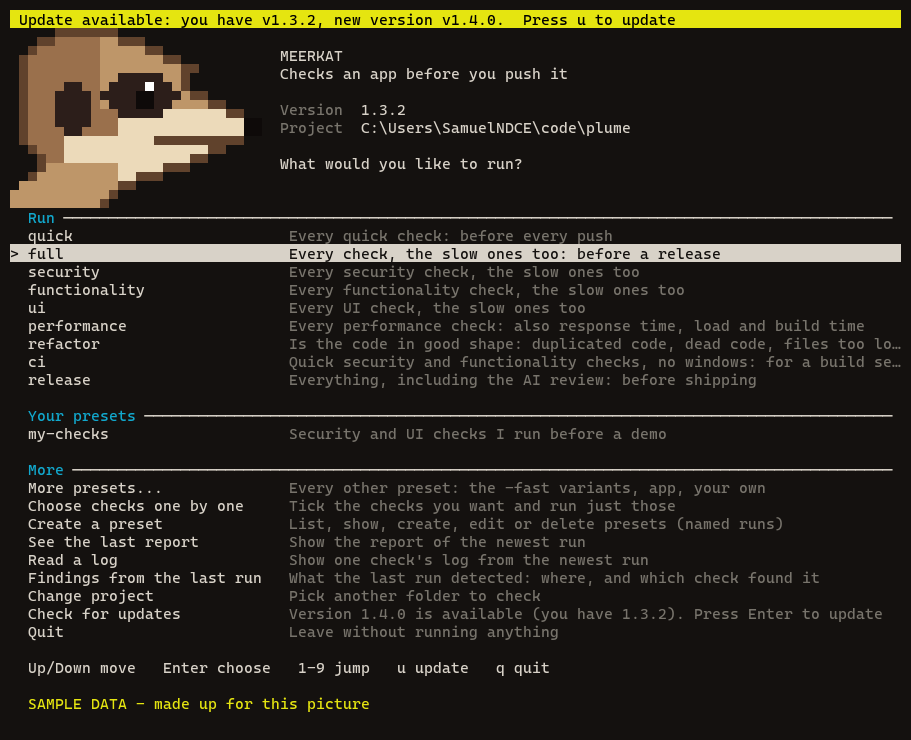
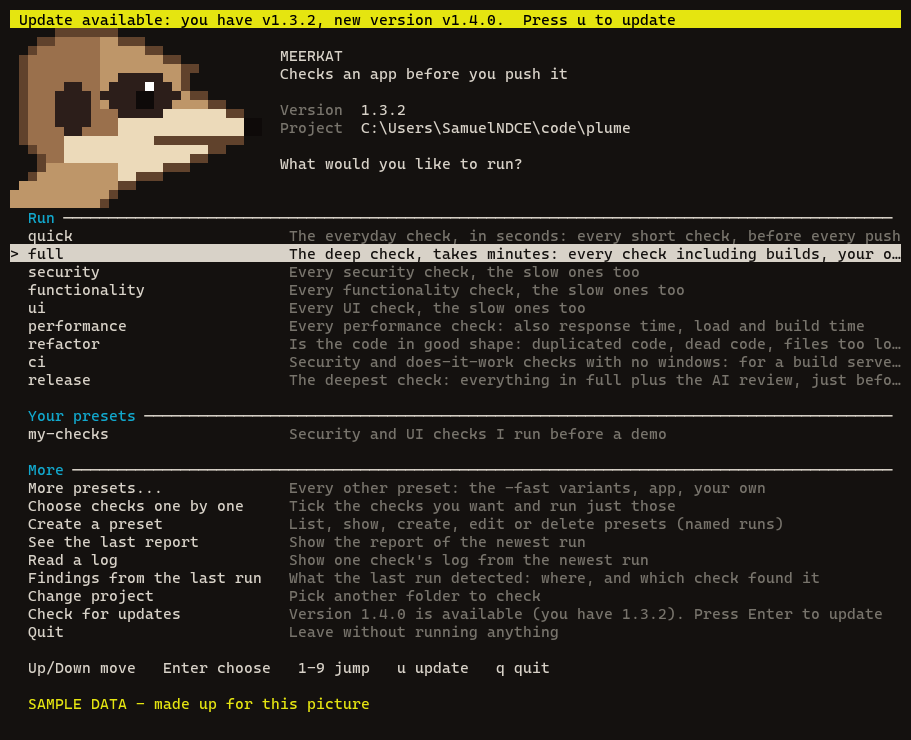
Merge AI prompt; README and pictures for 0.3.0

Changed region(s): [[0.3074, 0.4662, 0.9835, 0.5284], [0.3074, 0.3108, 0.9835, 0.373]]

diff --git a/README.md b/README.md
@@ -58,7 +58,8 @@ Meerkat is one command that runs all of it, works out what applies to your proje
 | **Smart timeouts** | Limits scale with project size and your PC; `--timeout-scale` and `--max-run-minutes` when you want control |
 | **Estimates** | The menu and board show how long a run should take for this project, learned from your history |
 | **Deeper checks** | Mutation testing and runtime checks (clean-copy build, flaky tests, timezone matrix and more), on request |
-| **AI checks** | Optional. Off by default; they say what they will send before they send it |
+| **AI prompt** | Press `p` on the results screen for a ready-made prompt that hands every finding, in full, to an AI to verify and fix |
+| **AI checks and verification** | Optional. Off by default; they say what they will send before they send it |
 | **Updates** | Your version and the newest one are shown on the menu and results screen; one key installs it |
 | **Logs** | One folder per run named with the project and preset; `meerkat why <check>` explains a failure |
 
@@ -188,6 +189,20 @@ The exit code is 0 when everything passed, 1 when something failed and 75 when s
 ## For AI agents and scripts
 
 Meerkat is built to be driven by tools as well as people: plain output, `--json`, SARIF for code-scanning, an MCP server (`bin/meerkat-mcp.mjs`) with `meerkat_run`, `meerkat_last`, `meerkat_why` and more, and a stable findings protocol (`MEERKAT-FINDING` lines). Start at [docs/for-ai-agents.md](docs/for-ai-agents.md).
+
+### AI prompts and verification
+
+After a run, Meerkat can write a prompt for an AI that has never seen it:
+
+```
+meerkat prompt
+```
+
+On the results screen press `p`. Meerkat writes `ai-prompt.md` into the run folder and copies one short line to your clipboard that points your AI at it. The file explains what Meerkat is and what the results mean, then lists every finding in full (critical, high, medium, low, info), what could not run, and instructions to verify each finding, fix the real ones from the highest severity, and run `meerkat verify` again. Everything copied from your project is fenced and marked as untrusted data.
+
+Optional and off by default: `meerkat verify --ai-verify` (or `v` on the results screen) asks the model you chose with `meerkat ai use` to double-check each medium, high and critical finding. It tells you exactly what it will send (the finding, about 30 lines of code around it with secrets removed, and the rule description) and asks first unless you pass `--yes`. Verdicts only add notes to findings; nothing is deleted, and a model error means NOT RUN, never a pass.
+
+Every run also saves `run.log`, a timestamped record of how it went. Details: [docs/reference.md](docs/reference.md), [docs/logs.md](docs/logs.md), [docs/findings.md](docs/findings.md).
 
 ### Connect Meerkat to NeuralVault, Claude Code or any MCP client
 

diff --git a/docs/reference.md b/docs/reference.md
@@ -25,15 +25,12 @@ Every picture below is **sample data**: a made-up project, not a real run. Each 
 
 **When it finds problems**, the results screen lists them worst first. Each line says the severity in words and colour, the rule, the file and line, and why it matters. Critical means fix before shipping, high means fix soon, medium means should fix, low and info are worth knowing.
 
-![Results screen, findings tab](images/results-findings.png)
 
 Tab or the arrow keys move between the findings, every check with its time, and a timeline of the whole run. Up and Down scroll when there is more than fits.
 
 ![Using the results screen: scroll the findings, Tab to the checks, Tab to the timeline](images/results-scroll.gif)
 
-![Results screen, checks tab](images/results-checks.png)
 
-![Results screen, timeline tab](images/results-timeline.png)
 
 **When nothing is wrong**, Meerkat says so, and looks pleased about it.
 
@@ -92,7 +89,6 @@ That runs the quick checks and draws the live board: a progress bar that turns r
 
 Run `meerkat` on its own and it first asks which project: the folder you are in, projects you used lately, and the git repositories it finds on your PC. Type to filter, or browse folders and drives, or paste a path. Run `meerkat` on its own for a menu: Run lists quick, full, security, functionality, ui, performance, refactor, ci and release with an estimated time for the project on each row (`about 5 min`, `under 1 min`, `~40 s`), and "More presets..." opens every other preset. "Check for updates" looks for a newer version; a small spinner line at the top shows the daily look-up while it runs. Without `npm link`, use `node path/to/Meerkat/run.mjs --app <folder> --preset quick`. In the preset menu, `d` shows what a preset runs, `u` updates Meerkat, and Esc goes back to pick another project.
 
-![The board after a run with one failure: the failed check in red, a timeline of what ran when](images/board-fail.png)
 
 ## Make it yours: add your own checks
 

diff --git a/CHANGELOG.md b/CHANGELOG.md
@@ -4,6 +4,10 @@ Every released version of Meerkat, newest first. Versions follow semantic versio
 
 ## 0.3.0 (2026-11-01)
 
+- AI prompt: press p on the results screen (or run meerkat prompt) for a file that hands every finding in full to an AI
+- optional AI verification of findings (meerkat verify --ai-verify), fail-closed
+- findings, logs and the prompt keep full text (no 200 character cut); every run saves run.log
+- the live board shows the full scanned folder; settings files moved into .meerkat/
 - Longest checks start first and timeouts have more leeway
 - the live board never flickers and shows every group with its time in ALL CHECKS
 - fewer checks end NOT RUN (meerkat tools, built-in fallbacks)
